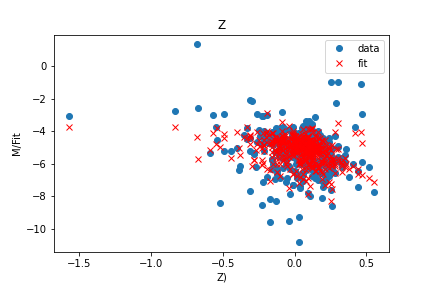
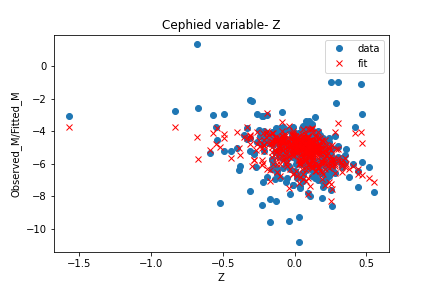
almost done

Changed region(s): [[0.3611, 0.0625, 0.662, 0.125], [0.0, 0.3125, 0.0602, 0.6875], [0.5116, 0.9375, 0.5417, 0.9688]]

diff --git a/Hw_6/Bonus.py b/Hw_6/Bonus.py
@@ -28,7 +28,7 @@ X=np.array([[1,math.log(data[i][0],10),data[i][7]]for i in range(len(data))])
 Y=[]
 
 
-#-------------------------------calculating absolute magnitude, band taken is J-----------------------
+#-------------------------------calculating absolute magnitude, band taken is J---------------------------------
 for i in range(len(data)):
     Av=3.1*data[i][6]
     Al=0.271*Av  #J band
@@ -36,20 +36,25 @@ for i in range(len(data)):
     
     
     
-#-------------------------------------Parameter estimation-------------------------------------
+#-------------------------------------Parameter estimation for full model-------------------------------------
+#n added to a variable means nested value, X is full models design matrix and Xn is nested models design matrix
+
 Y=np.array(Y)
 Xt=np.transpose(X)
 A=np.matmul(Xt,Y)
 B=np.matmul(Xt,X)
 C=np.linalg.inv(B)
-Para=np.matmul(C,A)
-errors=[[np.sqrt(C[i][i])]for i in range(len(C))]
+Para=np.matmul(C,A)    #equation from lecture notes for parameter vector calculation
+errors=[[np.sqrt(C[i][i])]for i in range(len(C))] #equation from lecture notes for parameter vector calculation
 
 fit=[]
 for i in range(len(X)):
-    fit.append(Para[0]+Para[1]*X[i][1]+Para[2]*X[i][2])
+    fit.append(Para[0]+Para[1]*X[i][1]+Para[2]*X[i][2]) #PLZ relation
 fit=np.array(fit)
 
+
+
+#----------------------------------Parameter estimation of nested model------------------------------------
 Xn=np.array([[1,math.log(data[i][0],10)]for i in range(len(data))])
 Yn=np.array(Y)
 Xtn=np.transpose(Xn)
@@ -57,27 +62,26 @@ An=np.matmul(Xtn,Yn)
 Bn=np.matmul(Xtn,Xn)
 Cn=np.linalg.inv(Bn)
 Paran=np.matmul(Cn,An)
-errorsn=[[0.1*np.sqrt(C[i][i])]for i in range(len(C))]
+errorsn=[[0.1*np.sqrt(Cn[i][i])]for i in range(len(Cn))]
+print("For nested model")
+print("Alpha =",Paran[0], "error=",errorsn[0])
+print("Beta=",Paran[1],"error=",errorsn[1])
 
 fitn=[]
 for i in range(len(X)):
-    fitn.append(Paran[0]+Paran[1]*Xn[i][1])
+    fitn.append(Paran[0]+Paran[1]*Xn[i][1])         #nested relation
 fitn=np.array(fitn)
 
-X2=0
-X2n=0
-for i in range(len(data)-len(Para)):
-    X2=X2+((Y[i]-fit[i])**2)/(fitn[i])
-    
-for i in range(len(data)-len(Paran)):
-    X2n=X2n+((Yn[i]-fitn[i])**2)/(fitn[i])
-v=len(data)-len(Para)
-vn=len(data)-len(Paran)
-
+#---------------------------------------------Chisquare-----------------------------------------------------------------
+X2,p=stats.chisquare(Y,fit)
+X2n,pn=stats.chisquare(Y,fitn)
+v=len(data)-len(Para)     #full dof
+vn=len(data)-len(Paran)   #nested dof
 Num=(X2n-X2)/(v-vn)
-Den=X2/(len(data)-v)
-Num1=X2n/vn
-Den1=X2/v
-F=Num/Den
-F1=Num1/Den1
-return_value=stats.f.cdf(F1,Num1,Den1)
+Den=X2/(v)
+F=Num/Den                 #relation given in the problem
+return_value=stats.f.cdf(F,v-vn,v)
+print("full model dof=",v,"nested model dof=",vn)
+print("F statisic based on the given equation=",F)
+
+print()

diff --git a/Hw_6/pb2.py b/Hw_6/pb2.py
@@ -25,9 +25,9 @@ fit=np.array(fit)
 
 
 #------------------------------------Plotting-------------------------------------
-plt.title("log(Period)")
+plt.title("Cephied variable- log(Period)")
 plt.xlabel("log(Period)")
-plt.ylabel("M/Fit")
+plt.ylabel("Observed_M/Fitted_M")
 plt.plot(X[:,1],Y,"o",label="Data")
 plt.plot(X[:,1],fit,"rx",label="fit")
 plt.legend()
@@ -35,20 +35,20 @@ plt.savefig("Images/pb2_p")
 plt.show()
 
 
-plt.title("Z")
-plt.xlabel("Z)")
-plt.ylabel("M/Fit")
+plt.title("Cephied variable- Z")
+plt.xlabel("Z")
+plt.ylabel("Observed_M/Fitted_M")
 plt.plot(X[:,2],Y,"o",label="data")
 plt.plot(X[:,2],fit,"rx",label="fit")
 plt.legend()
 plt.savefig("Images/pb2_z")
 plt.show()
 
-a=[-40,0]
-b=[-40,0]
-plt.xlabel("Fit")
-plt.ylabel("M")
-plt.title("Fit V/s M")
+a=[-10,0]
+b=[-10,0]
+plt.xlabel("Fitted M")
+plt.ylabel("Observed M")
+plt.title("Observed_M V/S Fitted_M")
 plt.plot(fit,Y,"rx",label="Results")
 plt.plot(a,b,label="Expected")
 plt.legend()
@@ -58,7 +58,7 @@ plt.show()
 ax = plt.axes(projection='3d')
 ax.set_xlabel("log(Period)")
 ax.set_ylabel("Z")
-ax.set_zlabel("M/fit")
+ax.set_zlabel("Observed_M/Fitted_M")
 ax.scatter3D(X[:,1],X[:,2],Y[:],"gray",label="data")
 ax.plot3D(X[:,1],X[:,2],fit[:],"ro",label="fit")
 plt.legend()

diff --git a/Hw_6/pb1.py b/Hw_6/pb1.py
@@ -31,9 +31,9 @@ Y=[]
 
 #-------------------------------calculating absolute magnitude, band taken is J-----------------------
 for i in range(len(data)):
-    Av=3.1*data[i][6]
-    Al=0.271*Av  #J band
-    Y.append(data[i][3]-5*math.log((10**3)*data[i][1],10)+5-Al)
+    Av=3.1*data[i][6]    #relation 6 from HW
+    Al=0.271*Av  #J band   
+    Y.append(data[i][3]-5*math.log((10**3)*data[i][1],10)+5-Al)   #relation 4 from Hw
     
     
     
@@ -43,10 +43,14 @@ Xt=np.transpose(X)
 A=np.matmul(Xt,Y)
 B=np.matmul(Xt,X)
 C=np.linalg.inv(B)
-Para=np.matmul(C,A)
+Para=np.matmul(C,A)    #equation from lecture notes for parameter vector calculation
 errors=[[np.sqrt(C[i][i])]for i in range(len(C))]
 
 
+#-----------------------------------Printing----------------------------
+print("Alpha =",Para[0], "error=",errors[0])
+print("Beta=",Para[1],"error=",errors[1])
+print("Gamma=", Para[2], "error=",errors[2])
 
 
 

diff --git a/Hw_6/pb3.py b/Hw_6/pb3.py
@@ -43,3 +43,8 @@ B=np.matmul(Xt,X)
 C=np.linalg.inv(B)
 Para=np.matmul(C,A)
 errors=[[0.1*np.sqrt(C[i][i])]for i in range(len(C))]
+
+#-----------------------------------Printing----------------------------
+print("Alpha =",Para[0], "error=",errors[0])
+print("Beta=",Para[1],"error=",errors[1])
+print("Gamma=", Para[2], "error=",errors[2])
